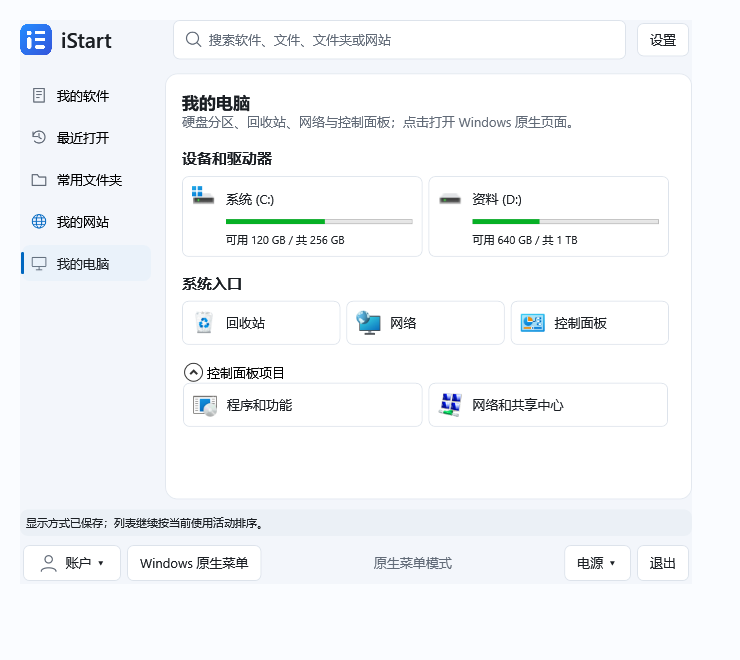
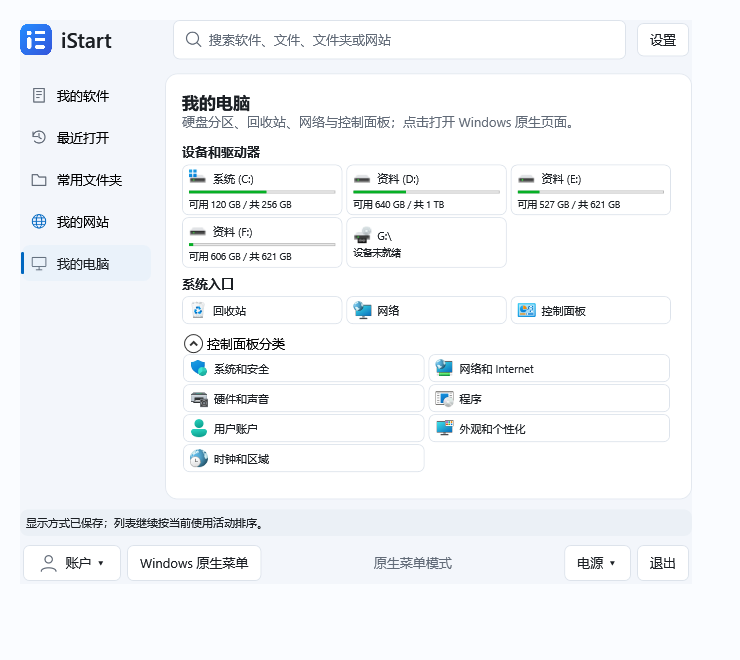
精简控制面板为七类并压缩磁盘布局

diff --git a/src/IStart.App/MainWindow.Computer.cs b/src/IStart.App/MainWindow.Computer.cs
@@ -37,23 +37,27 @@ public partial class MainWindow
         var query = SearchBox.Text.Trim();
         bool Match(ComputerItem item) => item.Title.Contains(query, StringComparison.CurrentCultureIgnoreCase)
             || item.Target.Contains(query, StringComparison.OrdinalIgnoreCase);
-        void Heading(string title) => ComputerPanel.Children.Add(new TextBlock { Text = title, FontSize = 15, FontWeight = FontWeights.SemiBold, Margin = new Thickness(0, 10, 0, 8) });
+        void Heading(string title) => ComputerPanel.Children.Add(new TextBlock { Text = title, FontSize = 13, FontWeight = FontWeights.SemiBold, Margin = new Thickness(0, 5, 0, 4) });
         Button Card(ComputerItem item)
         {
             var content = new StackPanel();
-            var row = new StackPanel { Orientation = Orientation.Horizontal };
+            var row = new Grid();
+            row.ColumnDefinitions.Add(new ColumnDefinition { Width = GridLength.Auto });
+            row.ColumnDefinitions.Add(new ColumnDefinition());
             row.Children.Add(new Image { Source = computerIcons.Convert(item.Target, typeof(System.Windows.Media.ImageSource), null!, System.Globalization.CultureInfo.CurrentCulture) as System.Windows.Media.ImageSource,
-                Width = 24, Height = 24, Margin = new Thickness(0, 0, 10, 0) });
-            row.Children.Add(new TextBlock { Text = item.Title, TextWrapping = TextWrapping.Wrap, VerticalAlignment = VerticalAlignment.Center });
+                Width = 18, Height = 18, Margin = new Thickness(0, 0, 6, 0) });
+            var title = new TextBlock { Text = item.Title, FontSize = 11, TextTrimming = TextTrimming.CharacterEllipsis, VerticalAlignment = VerticalAlignment.Center };
+            Grid.SetColumn(title, 1);
+            row.Children.Add(title);
             content.Children.Add(row);
-            if (item.UsedPercent is double percent) content.Children.Add(new ProgressBar { Value = percent, Maximum = 100, Height = 5, Margin = new Thickness(34, 9, 0, 5) });
-            if (item.Detail.Length > 0) content.Children.Add(new TextBlock { Text = item.Detail, FontSize = 11, Margin = new Thickness(34, 3, 0, 0) });
-            var button = new Button { Content = content, HorizontalContentAlignment = HorizontalAlignment.Stretch, Margin = new Thickness(0, 0, 6, 6), Padding = new Thickness(9), ToolTip = item.Title };
+            if (item.UsedPercent is double percent) content.Children.Add(new ProgressBar { Value = percent, Maximum = 100, Height = 3, Margin = new Thickness(0, 3, 0, 3) });
+            if (item.Detail.Length > 0) content.Children.Add(new TextBlock { Text = item.Detail, FontSize = 9.5, TextTrimming = TextTrimming.CharacterEllipsis, Margin = new Thickness(0, 1, 0, 0) });
+            var button = new Button { Content = content, HorizontalContentAlignment = HorizontalAlignment.Stretch, Margin = new Thickness(0, 0, 4, 2), Padding = new Thickness(6, 4, 6, 4), ToolTip = item.Detail.Length > 0 ? item.Title + "\n" + item.Detail : item.Title };
             button.Click += (_, _) => OpenComputerItem(item);
             return button;
         }
         Heading("设备和驱动器");
-        var drives = new System.Windows.Controls.Primitives.UniformGrid { Columns = 2 };
+        var drives = new System.Windows.Controls.Primitives.UniformGrid { Columns = 3 };
         foreach (var item in computer?.Drives.Where(Match) ?? []) drives.Children.Add(Card(item));
         ComputerPanel.Children.Add(drives);
         if (computer is null) ComputerPanel.Children.Add(new TextBlock { Text = "正在读取硬盘分区…" });
@@ -65,7 +69,7 @@ public partial class MainWindow
         var expanded = new System.Windows.Controls.Primitives.UniformGrid { Columns = 2 };
         foreach (var item in computer?.ControlPanel.Where(Match) ?? []) expanded.Children.Add(Card(item));
         if (computer?.PanelUnavailable == true) expanded.Children.Add(new TextBlock { Text = "无法展开系统项目；可点击上方控制面板打开原生窗口。", TextWrapping = TextWrapping.Wrap });
-        ComputerPanel.Children.Add(new Expander { Header = "控制面板项目", IsExpanded = true, Content = expanded, Margin = new Thickness(0, 10, 0, 0) });
+        ComputerPanel.Children.Add(new Expander { Header = "控制面板分类", IsExpanded = true, Content = expanded, Margin = new Thickness(0, 6, 0, 0) });
         SearchStatus.Text = "硬盘分区、回收站、网络与控制面板；点击打开 Windows 原生页面。";
     }
 

diff --git a/src/IStart.App/SmokeTest.cs b/src/IStart.App/SmokeTest.cs
@@ -47,6 +47,9 @@ internal static partial class SmokeTest
         VerifySoftwareDiscovery(fixture);
         VerifyWebsiteHistory(fixture);
         VerifyUpdater(fixture);
+        Check(ComputerItems.IsControlPanelCategory(ComputerItems.ControlPanel[6..] + "\\5")
+            && !ComputerItems.IsControlPanelCategory(ComputerItems.ControlPanel[6..] + "\\7")
+            && !ComputerItems.IsControlPanelCategory(ComputerItems.ControlPanel[6..] + "\\0"), "控制面板仅允许七个大类，排除轻松使用及全部子项");
         var recentFolder = Path.Combine(fixture, "recent");
         Directory.CreateDirectory(recentFolder);
         ShellShortcut.CreateFixture(Path.Combine(recentFolder, "文档.lnk"), file);
@@ -258,15 +261,17 @@ internal static partial class SmokeTest
         sitesBitmap.Render(backdrop); sitesBitmap.Render(content);
         var sitesEncoder = new PngBitmapEncoder(); sitesEncoder.Frames.Add(BitmapFrame.Create(sitesBitmap));
         using (var stream = File.Create(Path.Combine(output, "menu-websites.png"))) sitesEncoder.Save(stream);
-        window.computer = new([new("系统 (C:)", "C:\\", "可用 120 GB / 共 256 GB", 53), new("资料 (D:)", "D:\\", "可用 640 GB / 共 1 TB", 36)],
-            [new("程序和功能", "shell:::{7B81BE6A-CE2B-4676-A29E-EB907A5126C5}"), new("网络和共享中心", "shell:::{8E908FC9-BECC-40F6-915B-F4CA0E70D03D}")], false);
+        window.computer = new([new("系统 (C:)", "C:\\", "可用 120 GB / 共 256 GB", 53), new("资料 (D:)", "D:\\", "可用 640 GB / 共 1 TB", 36), new("资料 (E:)", "E:\\", "可用 527 GB / 共 621 GB", 15), new("资料 (F:)", "F:\\", "可用 606 GB / 共 621 GB", 3), new("G:\\", "G:\\", "设备未就绪")],
+            new[] { "系统和安全", "网络和 Internet", "硬件和声音", "程序", "用户账户", "外观和个性化", "时钟和区域" }.Select((title, index) => new ComputerItem(title, ComputerItems.ControlPanel + "\\" + new[] { 5, 3, 2, 8, 9, 1, 6 }[index])).ToList(), false);
         navigation.SelectedItem = navigation.Items.OfType<MenuCategory>().Single(c => c.Name == "我的电脑");
         content.UpdateLayout();
         Check(groupedList.Visibility == Visibility.Collapsed && ((System.Windows.Controls.ScrollViewer)window.FindName("ComputerScroll")).Visibility == Visibility.Visible, "我的电脑独立内容区切换");
+        var computerScroll = (System.Windows.Controls.ScrollViewer)window.FindName("ComputerScroll");
         var computerBitmap = new RenderTargetBitmap(740, 660, 96, 96, PixelFormats.Pbgra32);
         computerBitmap.Render(backdrop); computerBitmap.Render(content);
         var computerEncoder = new PngBitmapEncoder(); computerEncoder.Frames.Add(BitmapFrame.Create(computerBitmap));
         using (var stream = File.Create(Path.Combine(output, "menu-computer.png"))) computerEncoder.Save(stream);
+        Check(computerScroll.ExtentHeight <= computerScroll.ViewportHeight + 1, $"默认尺寸下五个磁盘与七个控制面板分类无需滚动：内容 {computerScroll.ExtentHeight}，可视 {computerScroll.ViewportHeight}");
         search.Text = "网络";
         Check(((System.Windows.Controls.StackPanel)window.FindName("ComputerPanel")).Children.OfType<System.Windows.Controls.Primitives.UniformGrid>().SelectMany(g => g.Children.OfType<System.Windows.Controls.Button>()).Count() == 1, "我的电脑搜索过滤系统入口");
         search.Clear();

diff --git a/src/IStart.App/ComputerItems.cs b/src/IStart.App/ComputerItems.cs
@@ -10,7 +10,9 @@ internal static class ComputerItems
 {
     internal const string RecycleBin = "shell:RecycleBinFolder";
     internal const string Network = "shell:NetworkPlacesFolder";
-    internal const string ControlPanel = "shell:::{26EE0668-A00A-44D7-9371-BEB064C98683}\\0";
+    internal const string ControlPanel = "shell:::{26EE0668-A00A-44D7-9371-BEB064C98683}";
+    private static readonly int[] CategoryOrder = [5, 3, 2, 8, 9, 1, 6];
+    internal static bool IsControlPanelCategory(string path) => CategoryOrder.Any(id => path.Equals(ControlPanel[6..] + "\\" + id, StringComparison.OrdinalIgnoreCase));
 
     public static ComputerSnapshot Read(CancellationToken token)
     {
@@ -45,7 +47,7 @@ internal static class ComputerItems
             else
             {
                 items = ((dynamic)folder).Items();
-                var count = Math.Min((int)((dynamic)items).Count, 128);
+                var count = Math.Min((int)((dynamic)items).Count, 16);
                 for (var i = 0; i < count; i++)
                 {
                     token.ThrowIfCancellationRequested();
@@ -54,7 +56,7 @@ internal static class ComputerItems
                     {
                         string path = ((dynamic)item).Path;
                         string name = ((dynamic)item).Name;
-                        if (!string.IsNullOrWhiteSpace(name) && path.StartsWith("::{", StringComparison.Ordinal))
+                        if (!string.IsNullOrWhiteSpace(name) && IsControlPanelCategory(path))
                             panel.Add(new(name, "shell:" + path));
                     }
                     finally { Marshal.FinalReleaseComObject(item); }
@@ -69,7 +71,7 @@ internal static class ComputerItems
             if (folder is not null) Marshal.FinalReleaseComObject(folder);
             if (shell is not null) Marshal.FinalReleaseComObject(shell);
         }
-        return new(drives, panel.OrderBy(i => i.Title, StringComparer.CurrentCultureIgnoreCase).ToList(), unavailable);
+        return new(drives, panel.OrderBy(i => Array.IndexOf(CategoryOrder, int.Parse(i.Target[(i.Target.LastIndexOf('\\') + 1)..]))).ToList(), unavailable);
     }
 
     private static string Size(long bytes) => bytes >= 1L << 40 ? $"{bytes / (double)(1L << 40):0.#} TB" : $"{bytes / (double)(1L << 30):0.#} GB";

diff --git a/ARCHITECTURE.md b/ARCHITECTURE.md
@@ -97,7 +97,7 @@ GitHub 发布边界：build.yml 将 ProductVersion 绑定检出 SHA；release.ym
 
 ## 我的电脑与应用内升级（preview.17 开发版）
 
-ComputerItems 使用 DriveInfo 读取分区和就绪本机磁盘容量；映射网络盘只展示入口，不查询远程容量。当前用户 Shell.Application 枚举控制面板的最多 128 个项目，finally 释放 COM 对象。MainWindow.Computer 在独立异步任务读取，等待预算 5 秒；未结束的任务不会重复创建。视图显示磁盘容量、回收站、网络及默认展开的控制面板项目，支持名称搜索；系统入口通过 explorer.exe 的单个 ArgumentList 参数打开，不写入个人文件历史、不执行清空回收站等操作。ShellIconConverter 沿用 PIDL 图标能力读取虚拟系统入口。
+ComputerItems 使用 DriveInfo 读取分区和就绪本机磁盘容量；映射网络盘只展示入口，不查询远程容量。当前用户 Shell.Application 枚举控制面板类别根目录的最多 16 个入口，仅保留系统和安全、网络和 Internet、硬件和声音、程序、用户账户、外观和个性化、时钟和区域这 7 个类别；按系统类别 ID 过滤，排除轻松使用和所有控制面板项，finally 释放 COM 对象。MainWindow.Computer 在独立异步任务读取，等待预算 5 秒；未结束的任务不会重复创建。视图以紧凑三列显示磁盘容量、回收站、网络及默认展开的控制面板项目，支持名称搜索；系统入口通过 explorer.exe 的单个 ArgumentList 参数打开，不写入个人文件历史、不执行清空回收站等操作。ShellIconConverter 沿用 PIDL 图标能力读取虚拟系统入口。
 
 GitHubUpdater 只在用户打开升级页时访问固定仓库的公开 Releases API（最多 100 个版本，响应上限 2 MiB，30 秒预算）。按数值版本比较；预览用户可跟随更高预览或正式版，正式用户不接收预览。排除草稿，只接受精确匹配版本名的 x64 安装资产、固定仓库下载 URL、256 MiB 内大小和 GitHub SHA256 digest。下载流最大 15 分钟，展示实际字节进度，写入独立 GUID 目录的 .part；校验大小和 SHA256 后才改名为 exe。关闭窗口取消请求，失败清理本次临时文件，保留原版本。成功后只清理更新器拥有的超过 7 天且非最近两次下载的已知缓存文件，不递归删除未知内容。
 

diff --git a/docs/COMPUTER_UPDATE_VALIDATION.md b/docs/COMPUTER_UPDATE_VALIDATION.md
@@ -6,7 +6,8 @@
 
 - Release 构建零警告、零错误；完整核心回归通过。
 - 隔离夹具验证五个入口切换、我的电脑搜索、容量卡片与系统入口渲染；Windows/Google 主题原有回归通过。示例图见 prototypes/computer.png，容量为测试值。
-- 本机只读探测发现 5 个驱动器、37 个控制面板项目；控制面板枚举可用。GitHub Releases 请求成功，当前开发版 17 高于公开版本 16，返回无更高版本。
+- 五个磁盘与七个控制面板大类的默认窗口布局无需滚动；磁盘三列，系统入口单行，控制面板双列。
+- 本机只读探测发现 5 个驱动器、7 个允许的控制面板大类；控制面板类别枚举可用。GitHub Releases 请求成功，当前开发版 17 高于公开版本 16，返回无更高版本。
 - 升级隔离 HTTP 夹具验证数值版本比较、草稿排除、外部下载来源拒绝、正式/预览通道、下载字节与 SHA256 校验、校验失败清理及取消清理；夹具文件不执行。
 - 隔离 QA 安装器首次安装、覆盖安装、卸载及中文空格目录验证通过；不启动真实菜单。
 - 应用内安装使用现有 Inno 安装向导，当前目录和开机启动选项传给安装器；准备安装时正常请求旧实例退出。开发/验收运行不能启动安装器。

diff --git a/README.md b/README.md
@@ -16,7 +16,7 @@
 | 最近打开 | iStart、Windows、WPS、LibreOffice 等留下记录的有效文件 | 最近优先、去重，最多 100 项；不显示文件夹和程序 |
 | 常用文件夹 | 已添加目录及本机活动中的目录 | 默认常用优先，同页按钮切换最近打开；按窗口空位补充 |
 | 我的网站 | Chrome 和 Edge 的有限本机浏览历史，按域名合并 | 默认常用优先，同页按钮切换最近网址清单，最多 30 个 |
-| 我的电脑 | 硬盘分区、可用容量、回收站、网络、可展开的控制面板项目 | 点击系统项目打开 Windows 原生页面；支持当前页搜索 |
+| 我的电脑 | 硬盘分区、可用容量、回收站、网络、可展开的 7 个控制面板大类（不含轻松使用） | 点击系统项目打开 Windows 原生页面；支持当前页搜索 |
 
 - Windows 11 Fluent / Google 两种风格，在设置中即时切换并保存。
 - 桌面、任务栏、窗口、托盘、安装器和菜单使用统一 iStart 图标。
